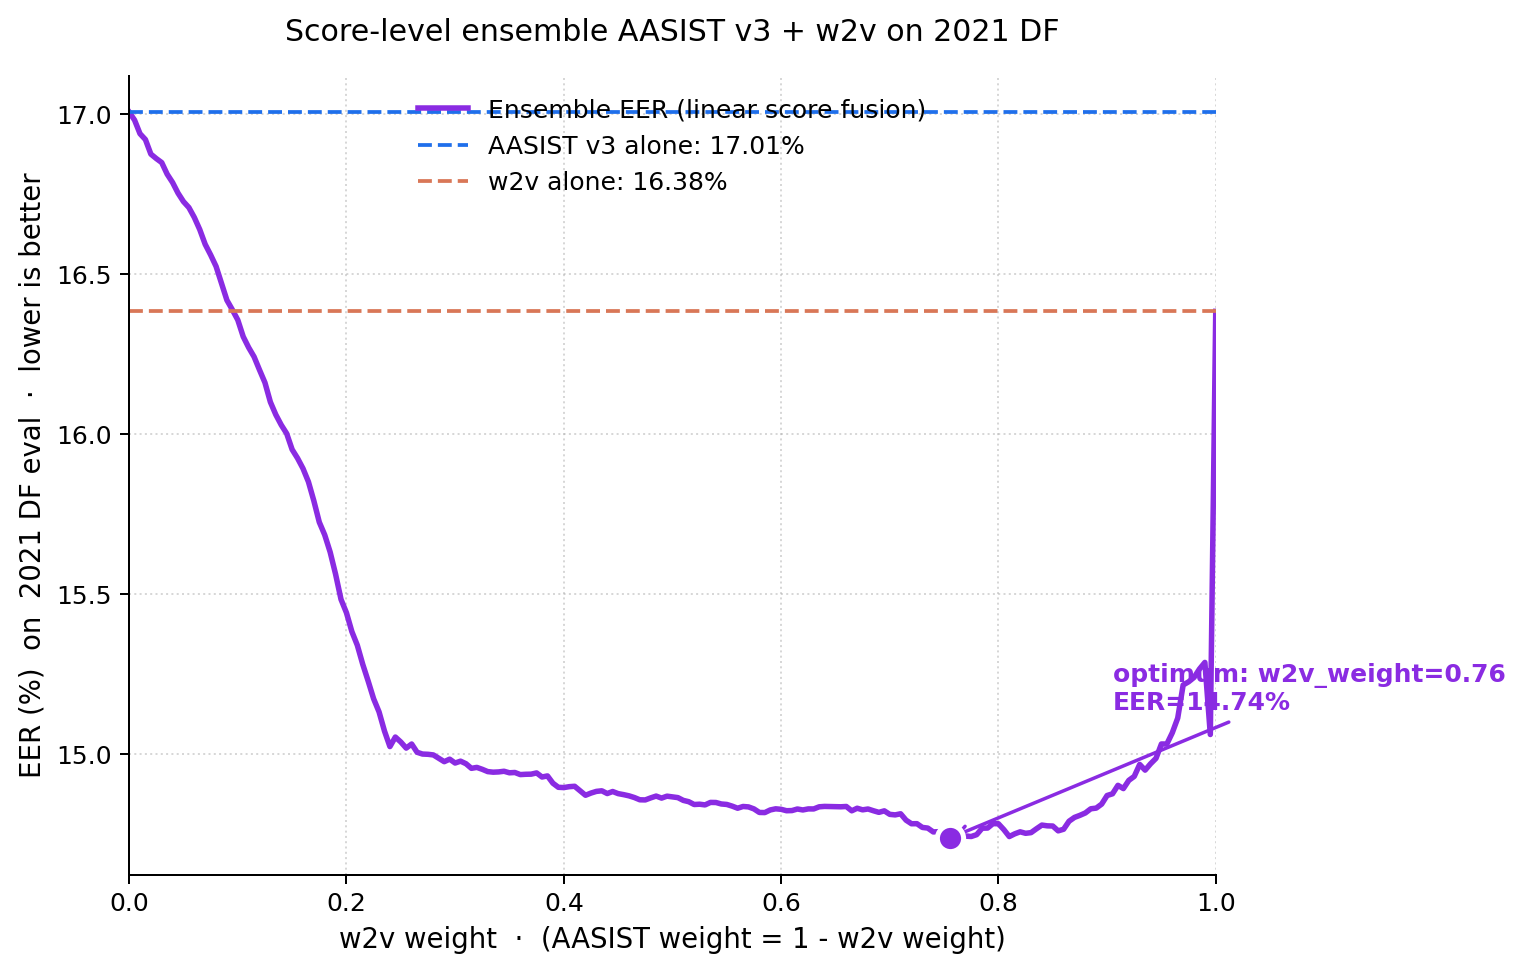
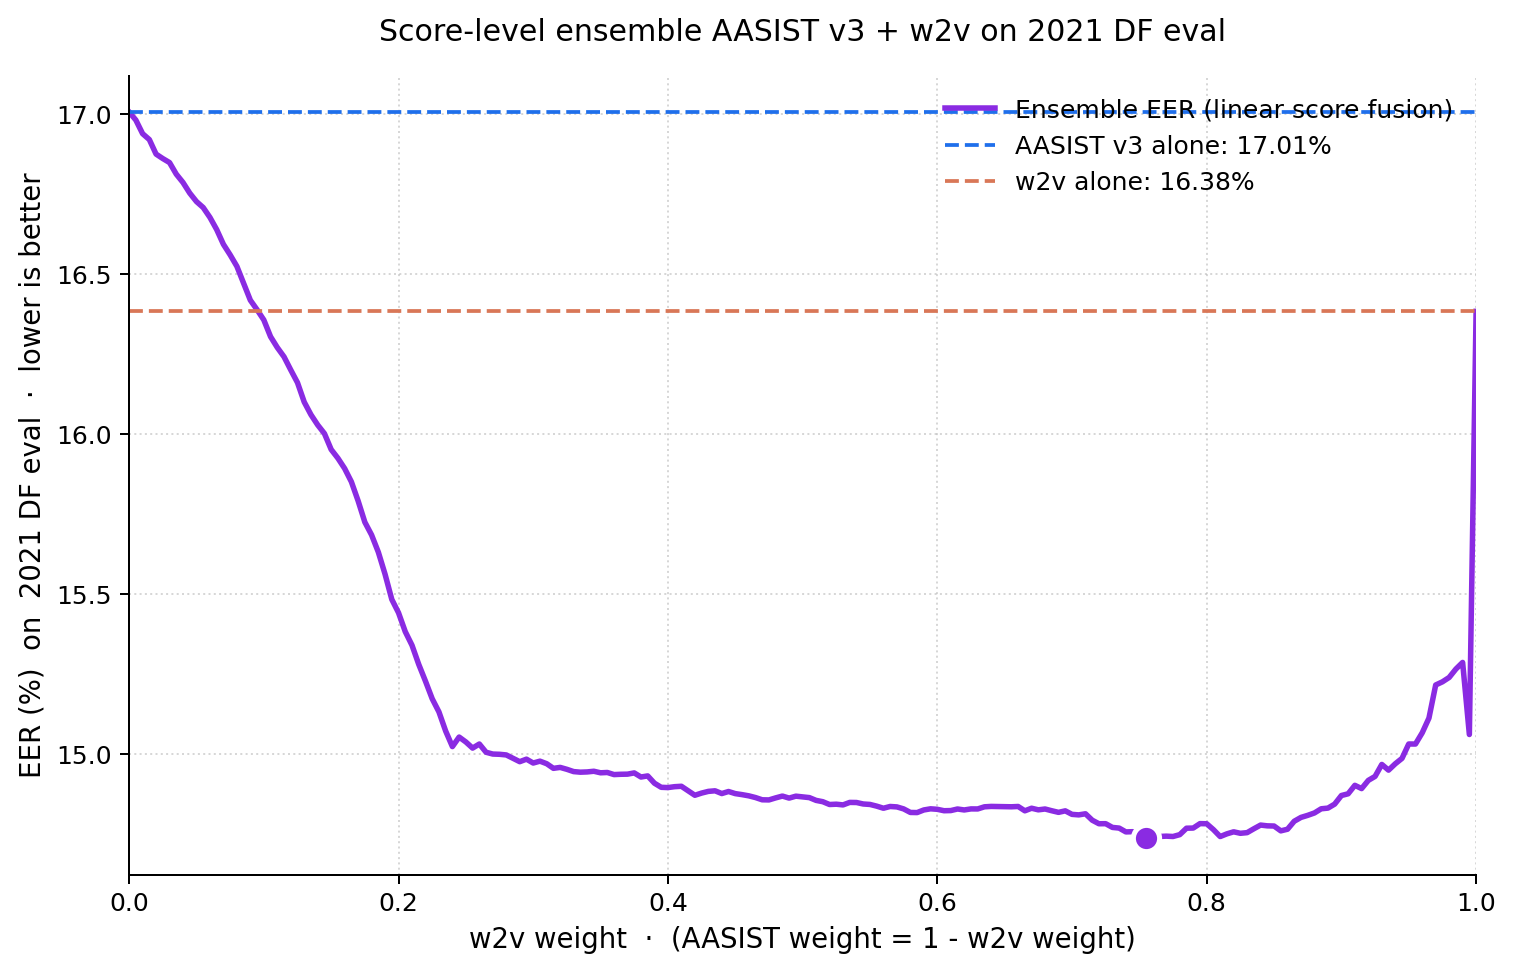
Add ensemble on 2021 LA (3.18% at 50/50) + team-comparison chart
Extended compute_ensemble.py to run on both 2021 DF and 2021 LA. Results:

2021 LA eval (148,176 joined):
- AASIST v3 alone: 4.67%
- w2v alone: 4.49% (on join subset)
- 50/50 ensemble: 3.18%
- Optimal (w2v=0.47): 2.84%

2021 DF eval unchanged: 14.87% at 50/50.

New chart v3_chart_team_comparison.png shows AASIST v3 vs w2v vs ensemble
across all three benchmarks. 2019 LA eval bars marked pending until Mohini
pushes eval-split predictions.

diff --git a/aasist/results/v3_predictions/compute_ensemble.py b/aasist/results/v3_predictions/compute_ensemble.py
@@ -1,4 +1,4 @@
-"""Score-level ensemble of AASIST v3 + w2v (Mohini) on 2021 DF eval.
+"""Score-level ensemble of AASIST v3 + w2v (Mohini) on 2021 DF and 2021 LA.
 
 Handles the label/score convention flip:
 - Arnav's convention:  label=1 -> spoof, score = P(spoof)
@@ -8,8 +8,9 @@ Both are converted to Arnav's convention before joining. Verified labels
 agree post-flip as a sanity check.
 
 Outputs:
-- v3_ensemble_metrics.json - per-weight ensemble EER on 2021 DF
-- v3_chart_ensemble_2021_df.png - ensemble EER vs w2v weight, with optimum
+- v3_ensemble_metrics.json - per-weight ensemble EER on both eval sets
+- v3_chart_ensemble_2021_df.png - ensemble EER vs w2v weight, with optimum (DF)
+- v3_chart_ensemble_2021_la.png - same for LA
 """
 import json
 from pathlib import Path
@@ -23,10 +24,21 @@ AASIST_DIR = REPO_ROOT / "aasist" / "results" / "v3_predictions"
 W2V_DIR = REPO_ROOT / "w2v"
 OUT_DIR = REPO_ROOT / "aasist" / "results"
 
-AASIST_CSV = AASIST_DIR / "v3_2021_DF_eval_predictions.csv"
-W2V_CSV = W2V_DIR / "test_predictions_fixed2.csv"
+DATASETS = [
+    {
+        "name": "2021 DF eval",
+        "slug": "2021_df",
+        "aasist_csv": AASIST_DIR / "v3_2021_DF_eval_predictions.csv",
+        "w2v_csv": W2V_DIR / "test_predictions_fixed2.csv",
+    },
+    {
+        "name": "2021 LA eval",
+        "slug": "2021_la",
+        "aasist_csv": AASIST_DIR / "v3_2021_LA_eval_predictions.csv",
+        "w2v_csv": W2V_DIR / "test_predictions_LA_2021.csv",
+    },
+]
 
-V1_COLOR = "#9aa3ab"
 V3_COLOR = "#1f6feb"
 W2V_COLOR = "#d97757"
 ENS_COLOR = "#8a2be2"
@@ -36,97 +48,53 @@ def eer(labels, scores):
     fpr, tpr, thr = roc_curve(labels, scores)
     fnr = 1 - tpr
     idx = np.nanargmin(np.abs(fnr - fpr))
-    return float(thr[idx]), float((fpr[idx] + fnr[idx]) / 2.0), (fpr, tpr, thr)
+    return float(thr[idx]), float((fpr[idx] + fnr[idx]) / 2.0)
 
 
 def load_aasist(path):
-    df = pd.read_csv(path)
-    df = df.rename(columns={"utterance_id": "file_id"})
+    df = pd.read_csv(path).rename(columns={"utterance_id": "file_id"})
     df = df[["file_id", "label", "score"]].copy()
     df.columns = ["file_id", "aasist_label", "aasist_score_spoof"]
     return df
 
 
 def load_w2v_flip(path):
-    df = pd.read_csv(path)
-    df = df[["file_id", "true_label", "score"]].copy()
+    df = pd.read_csv(path)[["file_id", "true_label", "score"]].copy()
     df["w2v_label"] = 1 - df["true_label"]
     df["w2v_score_spoof"] = 1.0 - df["score"]
     return df[["file_id", "w2v_label", "w2v_score_spoof"]]
 
 
-def run():
-    print("Loading predictions...")
-    aasist = load_aasist(AASIST_CSV)
-    w2v = load_w2v_flip(W2V_CSV)
-    print(f"  AASIST rows: {len(aasist):,}")
-    print(f"  w2v rows:    {len(w2v):,}")
+def run_dataset(ds):
+    print(f"\n=== {ds['name']} ===")
+    aasist = load_aasist(ds["aasist_csv"])
+    w2v = load_w2v_flip(ds["w2v_csv"])
+    print(f"  AASIST rows: {len(aasist):,}   w2v rows: {len(w2v):,}")
 
     merged = aasist.merge(w2v, on="file_id", how="inner")
-    print(f"  merged (inner):   {len(merged):,}")
-
-    label_disagree = (merged["aasist_label"] != merged["w2v_label"]).sum()
-    if label_disagree > 0:
-        raise RuntimeError(f"Labels disagree on {label_disagree} rows post-flip; check convention")
-    print(f"  label sanity check: PASS ({label_disagree} disagreements)")
+    print(f"  merged (inner): {len(merged):,}")
+    disagree = (merged["aasist_label"] != merged["w2v_label"]).sum()
+    if disagree > 0:
+        raise RuntimeError(f"Labels disagree on {disagree} rows post-flip")
 
     y = merged["aasist_label"].to_numpy()
     a = merged["aasist_score_spoof"].to_numpy()
     w = merged["w2v_score_spoof"].to_numpy()
 
-    _, aasist_eer, _ = eer(y, a)
-    _, w2v_eer, _ = eer(y, w)
-    print(f"\n  standalone AASIST v3 EER: {aasist_eer*100:.2f}%")
-    print(f"  standalone w2v EER:       {w2v_eer*100:.2f}%")
-
-    weights = np.linspace(0.0, 1.0, 21)
-    curve = []
-    for wt in weights:
-        s = (1 - wt) * a + wt * w
-        _, e, _ = eer(y, s)
-        curve.append((float(wt), e))
-        print(f"  weight w2v={wt:.2f} (aasist={1-wt:.2f}):  ensemble EER = {e*100:.2f}%")
+    _, aasist_eer = eer(y, a)
+    _, w2v_eer = eer(y, w)
+    print(f"  standalone AASIST v3: {aasist_eer*100:.2f}%")
+    print(f"  standalone w2v:       {w2v_eer*100:.2f}%")
 
     fine = np.linspace(0.0, 1.0, 201)
-    eers = []
-    for wt in fine:
-        s = (1 - wt) * a + wt * w
-        _, e, _ = eer(y, s)
-        eers.append(e)
-    eers = np.array(eers)
+    eers = np.array([eer(y, (1 - wt) * a + wt * w)[1] for wt in fine])
+    ens_5050 = float(eers[100])
     best_idx = int(np.argmin(eers))
     best_wt = float(fine[best_idx])
     best_eer = float(eers[best_idx])
-    print(f"\n  optimal weight w2v={best_wt:.3f}: ensemble EER = {best_eer*100:.2f}%")
+    print(f"  50/50 ensemble:       {ens_5050*100:.2f}%")
+    print(f"  optimal (w2v={best_wt:.2f}): {best_eer*100:.2f}%")
     print(f"  improvement over best standalone: {(min(aasist_eer, w2v_eer) - best_eer)*100:.2f} pp")
-
-    ensemble_auc = float(roc_auc_score(y, (1 - best_wt) * a + best_wt * w))
-
-    results = {
-        "eval_set": "2021 DF eval",
-        "n_joined": int(len(merged)),
-        "n_aasist": int(len(aasist)),
-        "n_w2v": int(len(w2v)),
-        "n_bonafide": int((y == 0).sum()),
-        "n_spoof": int((y == 1).sum()),
-        "standalone": {
-            "aasist_v3": {"eer": aasist_eer, "auc": float(roc_auc_score(y, a))},
-            "w2v":       {"eer": w2v_eer,    "auc": float(roc_auc_score(y, w))},
-        },
-        "ensemble_50_50": {
-            "weight_w2v": 0.5,
-            "eer": float(eers[100]),
-        },
-        "ensemble_optimal": {
-            "weight_w2v": best_wt,
-            "weight_aasist": 1 - best_wt,
-            "eer": best_eer,
-            "auc": ensemble_auc,
-            "improvement_pp_over_best_standalone": float(min(aasist_eer, w2v_eer) - best_eer) * 100.0,
-        },
-        "sweep_coarse": [{"weight_w2v": w, "eer": e} for w, e in curve],
-    }
-    (OUT_DIR / "v3_ensemble_metrics.json").write_text(json.dumps(results, indent=2))
 
     fig, ax = plt.subplots(figsize=(8.5, 5.5))
     ax.plot(fine, eers * 100, color=ENS_COLOR, lw=2.2, label="Ensemble EER (linear score fusion)")
@@ -136,28 +104,48 @@ def run():
                label=f"w2v alone: {w2v_eer*100:.2f}%")
     ax.scatter([best_wt], [best_eer * 100], color=ENS_COLOR, s=110, zorder=5,
                edgecolor="white", linewidth=2)
-    ax.annotate(
-        f"optimum: w2v_weight={best_wt:.2f}\nEER={best_eer*100:.2f}%",
-        xy=(best_wt, best_eer * 100),
-        xytext=(best_wt + 0.15, best_eer * 100 + 0.4),
-        fontsize=10, color=ENS_COLOR, fontweight="bold",
-        arrowprops=dict(arrowstyle="->", color=ENS_COLOR, lw=1.4),
-    )
     ax.set_xlabel("w2v weight  ·  (AASIST weight = 1 - w2v weight)", fontsize=11)
-    ax.set_ylabel("EER (%)  on  2021 DF eval  ·  lower is better", fontsize=11)
-    ax.set_title("Score-level ensemble AASIST v3 + w2v on 2021 DF",
+    ax.set_ylabel(f"EER (%)  on  {ds['name']}  ·  lower is better", fontsize=11)
+    ax.set_title(f"Score-level ensemble AASIST v3 + w2v on {ds['name']}",
                  fontsize=12, pad=14)
     ax.set_xlim(0, 1)
-    ax.legend(loc="upper center", fontsize=10, frameon=False)
+    ax.legend(loc="upper right", fontsize=10, frameon=False)
     ax.spines["top"].set_visible(False)
     ax.spines["right"].set_visible(False)
     ax.grid(linestyle=":", alpha=0.5)
     fig.tight_layout()
-    p = OUT_DIR / "v3_chart_ensemble_2021_df.png"
-    fig.savefig(p, dpi=180, bbox_inches="tight")
-    print(f"\nwrote {OUT_DIR / 'v3_ensemble_metrics.json'}")
-    print(f"wrote {p}")
+    chart_path = OUT_DIR / f"v3_chart_ensemble_{ds['slug']}.png"
+    fig.savefig(chart_path, dpi=180, bbox_inches="tight")
+    plt.close(fig)
+    print(f"  wrote {chart_path.name}")
+
+    return {
+        "eval_set": ds["name"],
+        "n_joined": int(len(merged)),
+        "n_aasist": int(len(aasist)),
+        "n_w2v": int(len(w2v)),
+        "n_bonafide": int((y == 0).sum()),
+        "n_spoof": int((y == 1).sum()),
+        "standalone": {
+            "aasist_v3": {"eer": aasist_eer, "auc": float(roc_auc_score(y, a))},
+            "w2v":       {"eer": w2v_eer,    "auc": float(roc_auc_score(y, w))},
+        },
+        "ensemble_50_50": {"weight_w2v": 0.5, "eer": ens_5050},
+        "ensemble_optimal": {
+            "weight_w2v": best_wt, "weight_aasist": 1 - best_wt, "eer": best_eer,
+            "improvement_pp_over_best_standalone": float(min(aasist_eer, w2v_eer) - best_eer) * 100.0,
+        },
+    }
+
+
+def main():
+    all_results = {}
+    for ds in DATASETS:
+        all_results[ds["slug"]] = run_dataset(ds)
+    out = OUT_DIR / "v3_ensemble_metrics.json"
+    out.write_text(json.dumps(all_results, indent=2))
+    print(f"\nwrote {out}")
 
 
 if __name__ == "__main__":
-    run()
+    main()

diff --git a/aasist/results/v3_predictions/make_v3_charts.py b/aasist/results/v3_predictions/make_v3_charts.py
@@ -1,4 +1,4 @@
-"""Generate the two v3 presentation charts. Reads only local files."""
+"""Generate the v3 presentation charts. Reads only local files."""
 import json
 from pathlib import Path
 import matplotlib.pyplot as plt
@@ -13,9 +13,17 @@ EER = {
     "2021 DF eval": {"v1": 22.95, "v2": 17.20, "v3": 17.00},
 }
 
+TEAM_EER = {
+    "2019 LA eval": {"aasist_v3": 1.67, "w2v": None,  "ensemble": None},
+    "2021 LA eval": {"aasist_v3": 4.67, "w2v": 4.49, "ensemble": 3.18},
+    "2021 DF eval": {"aasist_v3": 17.01, "w2v": 16.38, "ensemble": 14.87},
+}
+
 V1_COLOR = "#9aa3ab"
 V2_COLOR = "#88a5c8"
 V3_COLOR = "#1f6feb"
+W2V_COLOR = "#d97757"
+ENS_COLOR = "#8a2be2"
 
 def chart_main():
     fig, ax = plt.subplots(figsize=(9, 5.2))
@@ -103,7 +111,57 @@ def chart_la2021_per_codec():
     fig.savefig(p, dpi=180, bbox_inches="tight")
     print(f"wrote {p}")
 
+def chart_team_comparison():
+    fig, ax = plt.subplots(figsize=(9.5, 5.5))
+    benchmarks = list(TEAM_EER.keys())
+    x = np.arange(len(benchmarks))
+    w = 0.26
+    aasist_vals = [TEAM_EER[b]["aasist_v3"] for b in benchmarks]
+    w2v_vals = [TEAM_EER[b]["w2v"] for b in benchmarks]
+    ens_vals = [TEAM_EER[b]["ensemble"] for b in benchmarks]
+
+    def draw(vals, offset, color, label):
+        heights = [v if v is not None else 0 for v in vals]
+        bars = ax.bar(x + offset, heights, w, label=label, color=color, edgecolor="white")
+        for r, v in zip(bars, vals):
+            if v is None:
+                ax.text(r.get_x() + r.get_width() / 2, 0.3, "pending",
+                        ha="center", va="bottom", fontsize=8.5, color="#666", style="italic")
+            else:
+                ax.annotate(f"{v:.2f}%",
+                            xy=(r.get_x() + r.get_width() / 2, v),
+                            xytext=(0, 4), textcoords="offset points",
+                            ha="center", va="bottom", fontsize=9)
+        return bars
+
+    draw(aasist_vals, -w, V3_COLOR, "AASIST v3 (Arnav)")
+    draw(w2v_vals,     0, W2V_COLOR, "w2v (Mohini)")
+    draw(ens_vals,     w, ENS_COLOR, "Ensemble (50/50 score fusion)")
+
+    ax.set_xticks(x)
+    ax.set_xticklabels(benchmarks, fontsize=11)
+    ax.set_ylabel("EER (%)  ·  lower is better", fontsize=11)
+    ax.set_title("Team model comparison  ·  ensemble beats best standalone on both 2021 sets",
+                 fontsize=12, pad=14)
+    max_val = max(v for v in aasist_vals + w2v_vals + ens_vals if v is not None)
+    ax.set_ylim(0, max_val * 1.18)
+    ax.legend(loc="upper left", fontsize=10, frameon=False)
+    ax.spines["top"].set_visible(False)
+    ax.spines["right"].set_visible(False)
+    ax.grid(axis="y", linestyle=":", alpha=0.5)
+    fig.text(0.5, -0.02,
+             "w2v standalone and ensemble numbers on the intersection of file_ids scored by both models. "
+             "2019 LA eval w2v predictions pending (currently only on train split).",
+             ha="center", fontsize=8, color="#666", style="italic")
+    fig.tight_layout()
+    p = OUT / "v3_chart_team_comparison.png"
+    fig.savefig(p, dpi=180, bbox_inches="tight")
+    plt.close(fig)
+    print(f"wrote {p}")
+
+
 if __name__ == "__main__":
     chart_main()
     chart_la2021()
     chart_la2021_per_codec()
+    chart_team_comparison()